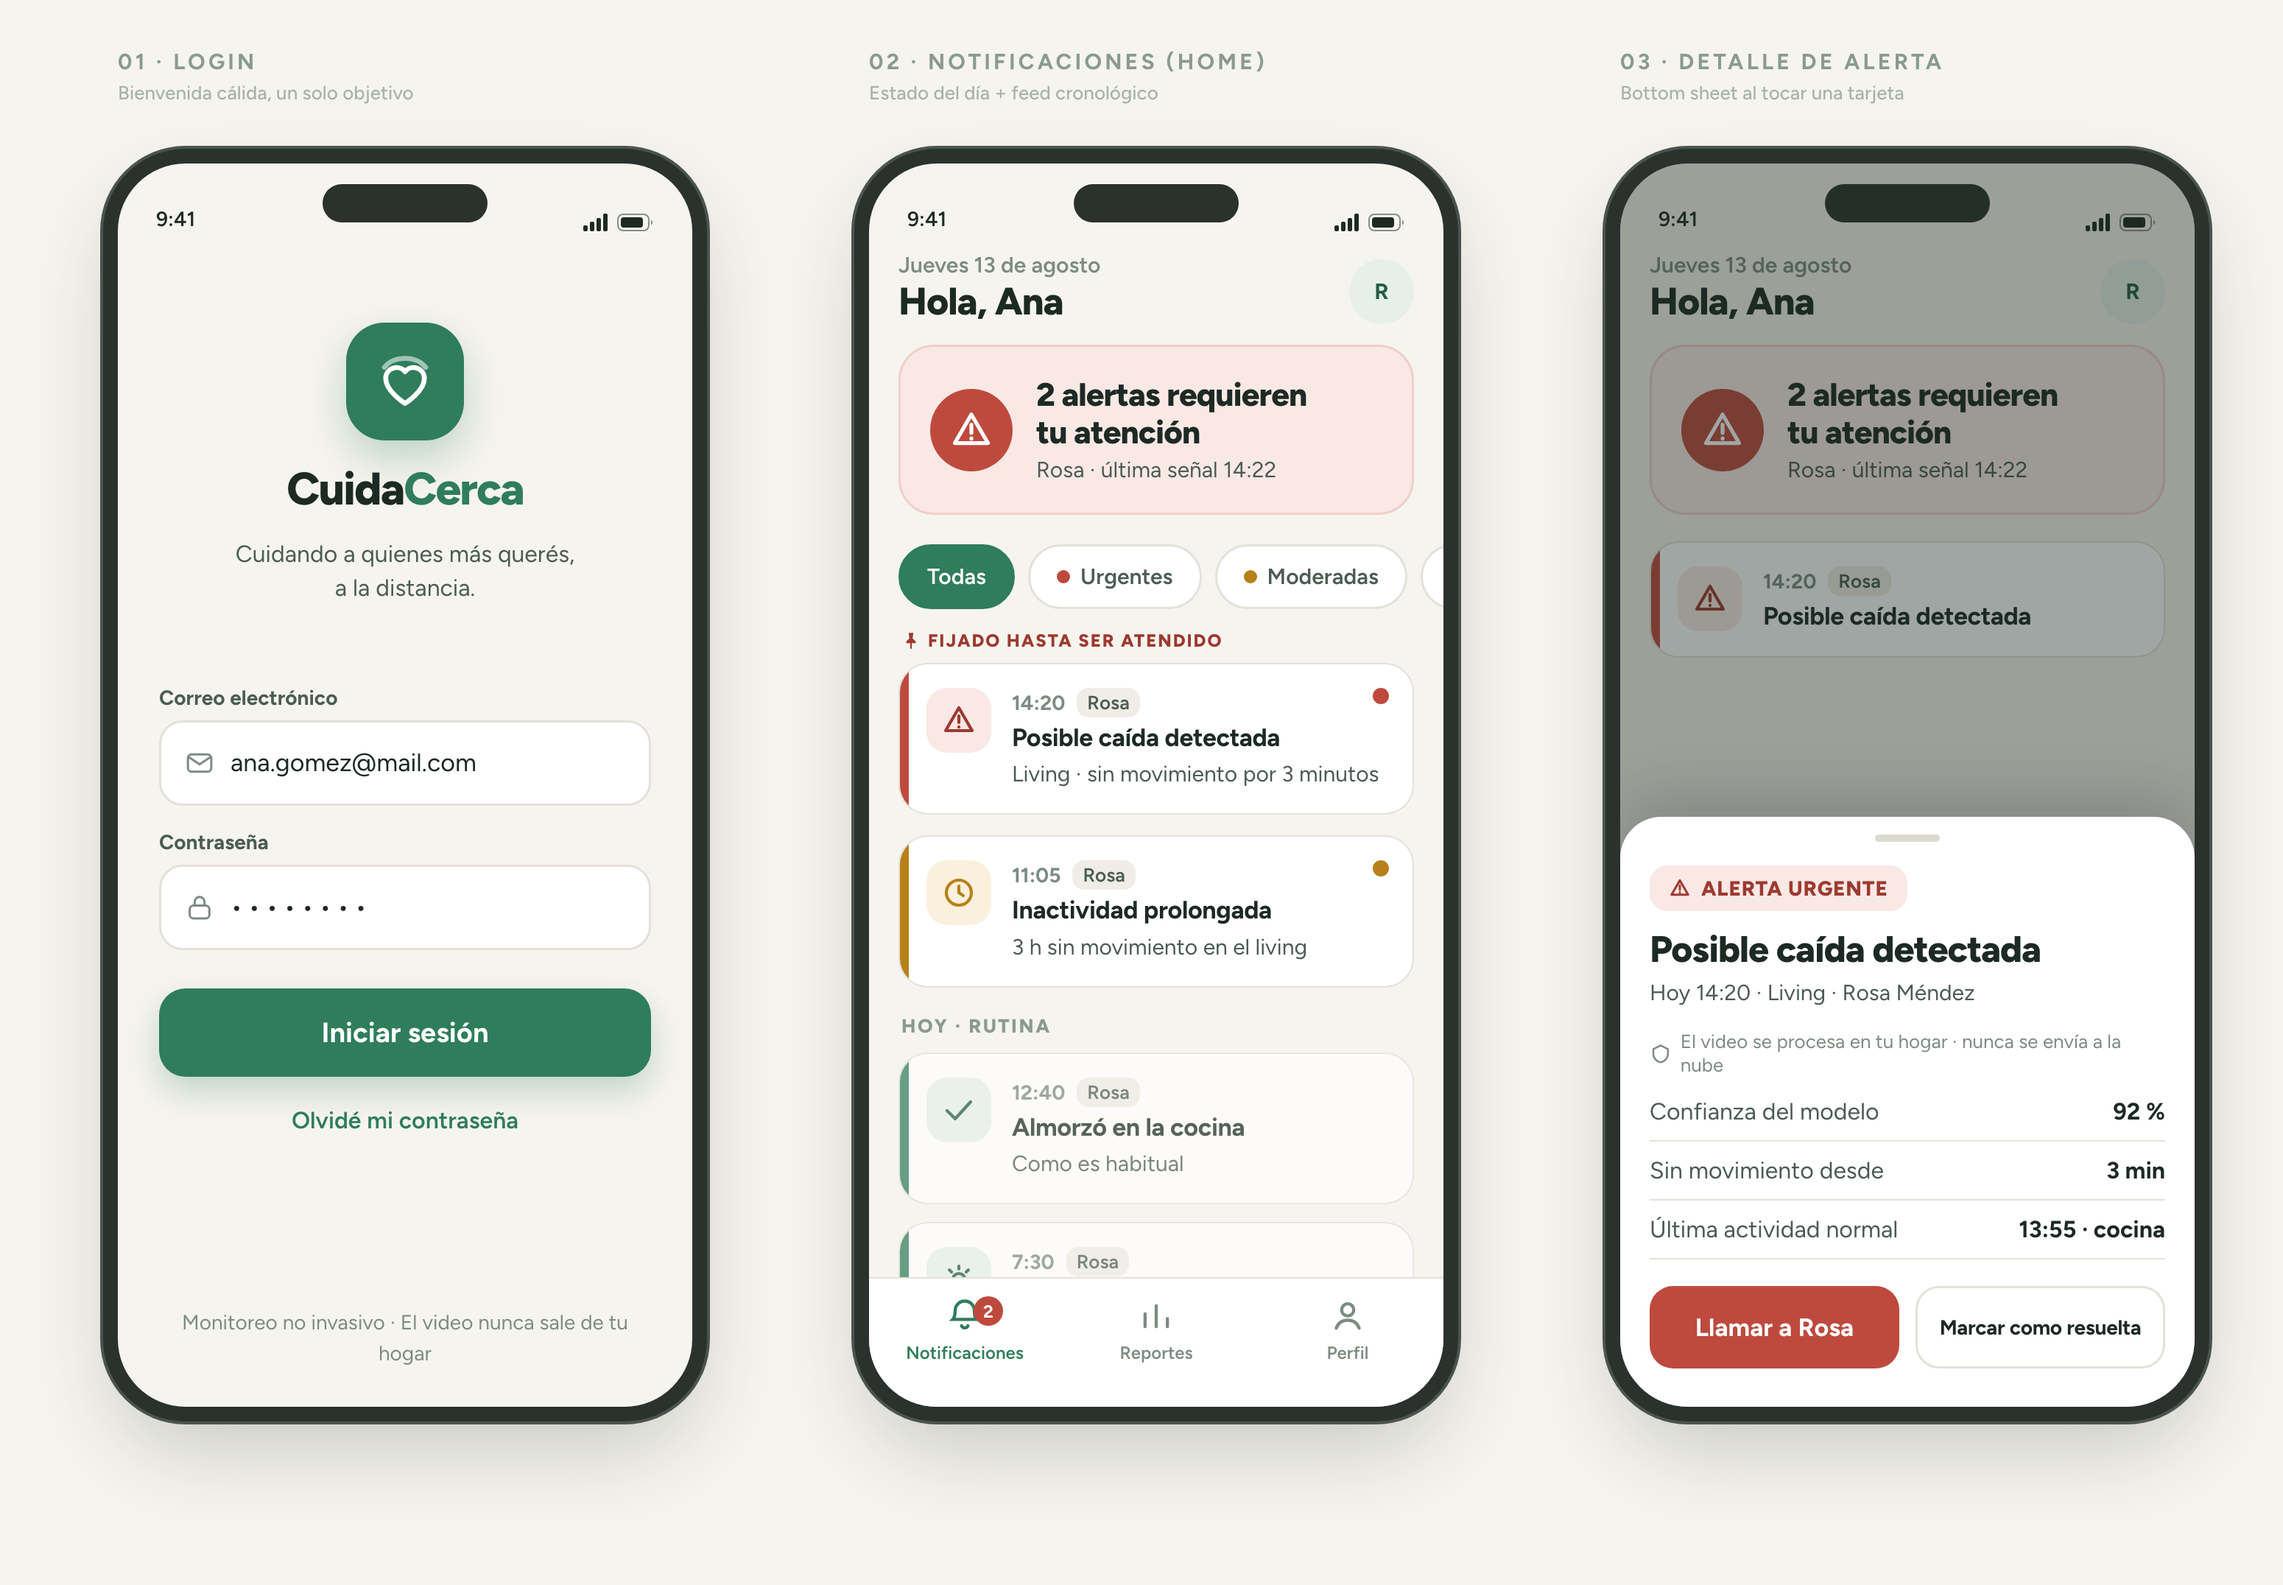
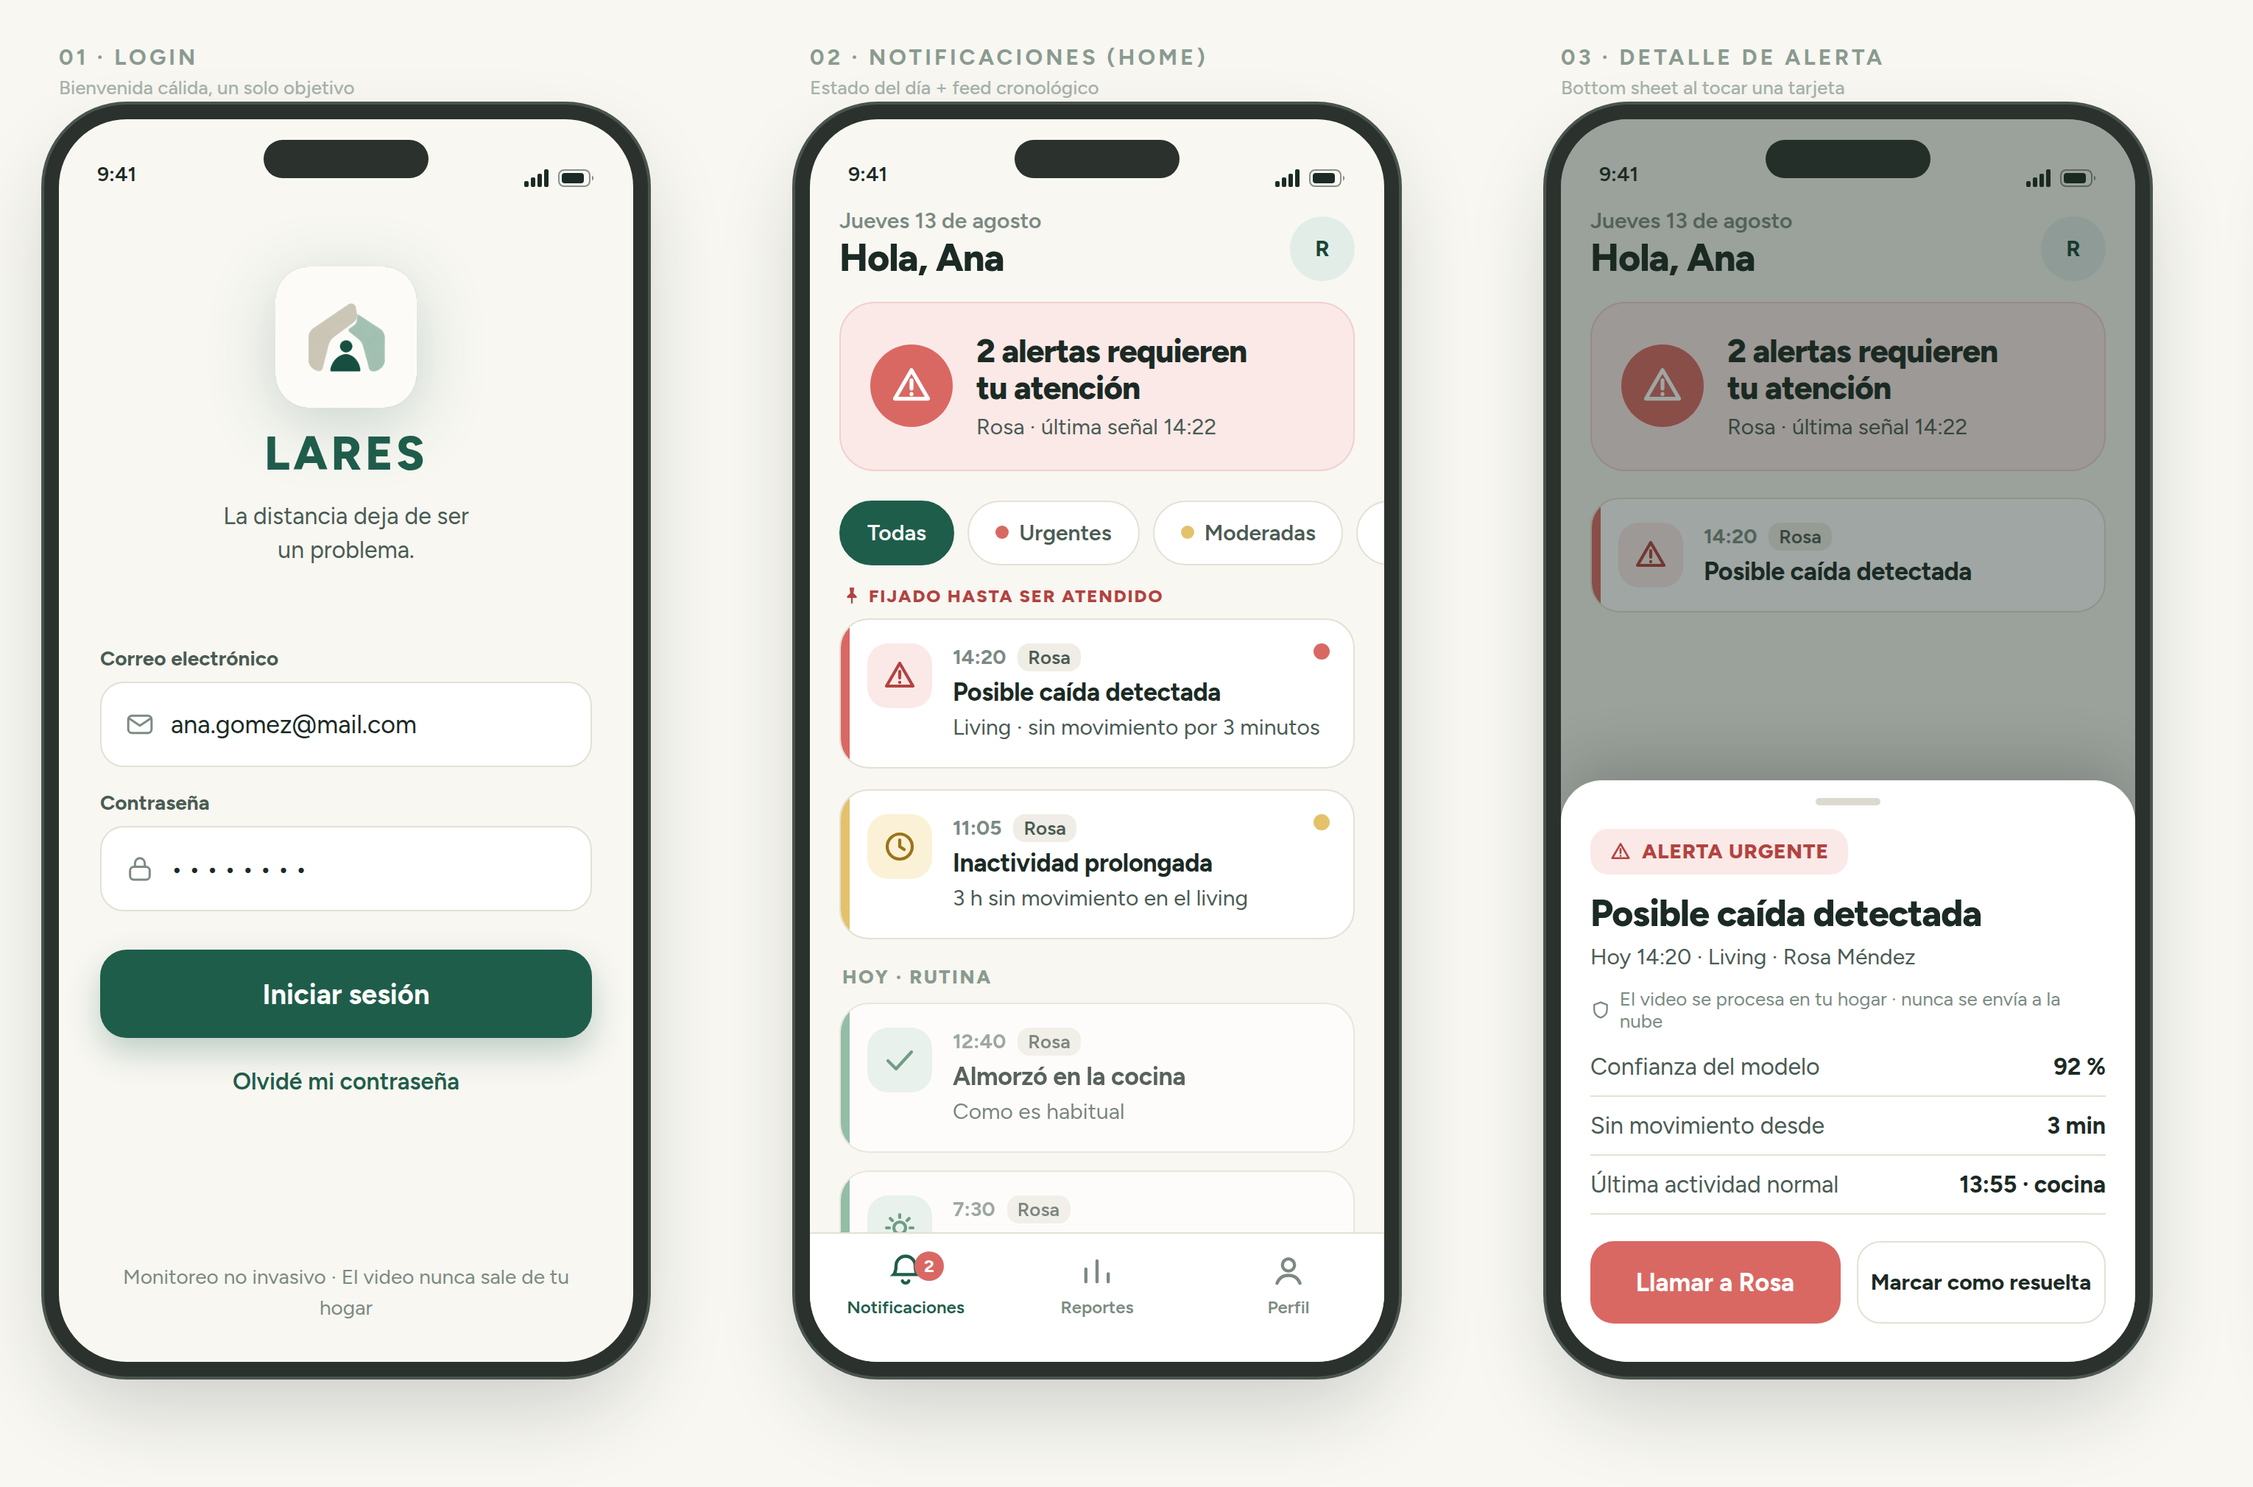
Actualiza los mockups de la app móvil con la marca Lares
Reemplaza las capturas de la Sección 3.3 por la versión regenerada con
el logo y la identidad visual de Lares definidos en la Sección 3.10,
en lugar del placeholder de la entrega anterior. Corrige la descripción
de la pantalla "Día en orden", que ya no comparte ícono con el login
(antes decía que reutilizaba "el mismo ícono de corazón del logo de
login", algo que dejó de ser cierto con el cambio de marca), y suma una
referencia cruzada desde la pantalla de login hacia la Sección 3.10.

diff --git a/chapters/chapter03.tex b/chapters/chapter03.tex
@@ -141,7 +141,7 @@ RF12 & \textit{Como responsable a cargo, quiero que solo las personas autorizada
 
 Para validar la interpretación del frontend antes de comenzar su implementación, se diseñaron las pantallas principales de la aplicación móvil descripta en el diagrama de arquitectura (Sección~\ref{sec:diagrama_arquitectura}), destinada al responsable a cargo del adulto mayor. Este usuario no siempre tiene conocimientos técnicos, y suele revisar la aplicación en momentos de preocupación o mientras hace otra cosa. Por eso el diseño prioriza tres criterios por sobre cualquier otro: que la información se lea de un solo vistazo, que la jerarquía visual separe lo urgente de lo rutinario, y que cada alerta permita responder sin pasos intermedios innecesarios. Son la traducción a nivel de interfaz de la simplicidad que exige RNF8, y recorren todo el flujo, desde el inicio de sesión (RNF10) hasta el consumo de alertas (RF8) y reportes (RF9).
 
-La Figura~\ref{fig:mockup_flujo1} muestra el primer tramo de ese recorrido. La pantalla de \textit{Login} (01) resuelve RNF10 con la menor fricción posible, ya que solo pide correo y contraseña y concentra la atención en un único botón. Aun así, ya aquí se adelanta la promesa central del producto. El pie de página aclara que el monitoreo es no invasivo y que el video nunca sale del hogar, tal como exige RNF1, y esa aclaración construye la confianza del familiar antes incluso de que inicie sesión. Es coherente, además, con el posicionamiento frente a la competencia que se desarrolla más adelante en este capítulo (Sección~\ref{sec:competencia}).
+La Figura~\ref{fig:mockup_flujo1} muestra el primer tramo de ese recorrido. La pantalla de \textit{Login} (01) resuelve RNF10 con la menor fricción posible, ya que solo pide correo y contraseña y concentra la atención en un único botón. Aun así, ya aquí se adelanta la promesa central del producto, con el logo y la frase de posicionamiento de la marca definida en la Sección~\ref{sec:branding}. El pie de página aclara que el monitoreo es no invasivo y que el video nunca sale del hogar, tal como exige RNF1, y esa aclaración construye la confianza del familiar antes incluso de que inicie sesión. Es coherente, además, con el posicionamiento frente a la competencia que se desarrolla más adelante en este capítulo (Sección~\ref{sec:competencia}).
 
 Una vez dentro, la pantalla de \textit{Notificaciones} (02) funciona como home de la aplicación. Ahí aparece la decisión de diseño más importante de todo el recorrido, el uso del color como código de severidad. Cada tarjeta de evento sigue el mismo patrón, un borde de color a la izquierda, un ícono y un punto de no leído, para que la urgencia se reconozca sin leer el texto completo. El rojo es para las caídas (RF1), el amarillo para señales moderadas como la inactividad prolongada (RF3), y el verde para los eventos de rutina (RF2), la misma convención de semáforo que el usuario ya conoce de otros contextos cotidianos. Ese código se repite en los chips de filtro (``Todas'', ``Urgentes'', ``Moderadas'', ``Rutina'') y también en la Figura~\ref{fig:mockup_flujo2}, así el color significa siempre lo mismo en toda la aplicación. Además, las alertas urgentes y moderadas quedan fijadas arriba del feed hasta ser atendidas, para que no se pierdan entre los eventos de rutina si el familiar no revisa la aplicación enseguida.
 
@@ -157,7 +157,7 @@ Al tocar una alerta se abre el detalle (03) como una hoja inferior (\textit{bott
 
 La Figura~\ref{fig:mockup_flujo2} muestra el segundo tramo, los reportes periódicos que exige RF9. La pestaña de \textit{Reportes} (04) no busca mostrar toda la actividad del día, sino señalar dónde se aparta Rosa de su propia rutina. Esa rutina no es un umbral genérico igual para todos los usuarios, sino la huella de comportamiento que el sistema fue construyendo día a día a partir de su propio historial de eventos, la línea base que exige RF6 (Sección~\ref{sec:aprendizaje_adaptativo_marco}). Por eso cada rango ``habitual'' que aparece en el panel, el horario en que se despierta, el de la primera comida o el tiempo que pasa sentada, es específico de Rosa y no una referencia general aplicada a cualquier residente, algo que además se apoya en RNF11, que asume un único residente monitoreado por hogar y evita tener que distinguir de quién es cada rango habitual dentro de una misma instalación. El panel del mockup usa esos tres indicadores a modo de ejemplo, aunque el sistema podría sumar otros a medida que la línea base se enriquezca. El desvío en sedentarismo, tres horas sentada frente a una hora habitual, usa el mismo ícono de advertencia y el mismo amarillo que las alertas moderadas, y se conecta de forma directa con la tarjeta de inactividad prolongada que aparece debajo, en el listado de eventos de la semana. Ese listado repite el mismo lenguaje visual de tarjetas con borde de color e ícono de la pantalla de notificaciones, así el familiar no tiene que aprender una segunda forma de leer la información solo por cambiar de pestaña.
 
-Por último, la pantalla \textit{Día en orden} (05) representa el estado sin alertas activas. En vez de dejarla vacía, algo deliberado, se reutiliza el mismo ícono de corazón del logo de login, ahora en un tono calmo, y se sigue mostrando el resumen de estado junto con los eventos de rutina del día. Así se evita confundir la ausencia de alertas con una falla del sistema, un problema común en aplicaciones de monitoreo, donde ``no hay nada nuevo'' y ``la aplicación dejó de funcionar'' pueden verse igual si la pantalla no avisa activamente que el monitoreo sigue en curso.
+Por último, la pantalla \textit{Día en orden} (05) representa el estado sin alertas activas. En vez de dejarla vacía, algo deliberado, la pantalla abre con un resumen de estado en verde (``Todo en orden hoy'') y un ícono de corazón en un tono calmo que refuerza el carácter de cuidado del sistema, y sigue mostrando debajo los eventos de rutina del día. Así se evita confundir la ausencia de alertas con una falla del sistema, un problema común en aplicaciones de monitoreo, donde ``no hay nada nuevo'' y ``la aplicación dejó de funcionar'' pueden verse igual si la pantalla no avisa activamente que el monitoreo sigue en curso.
 
 \begin{figure}[htb]
     \centering
